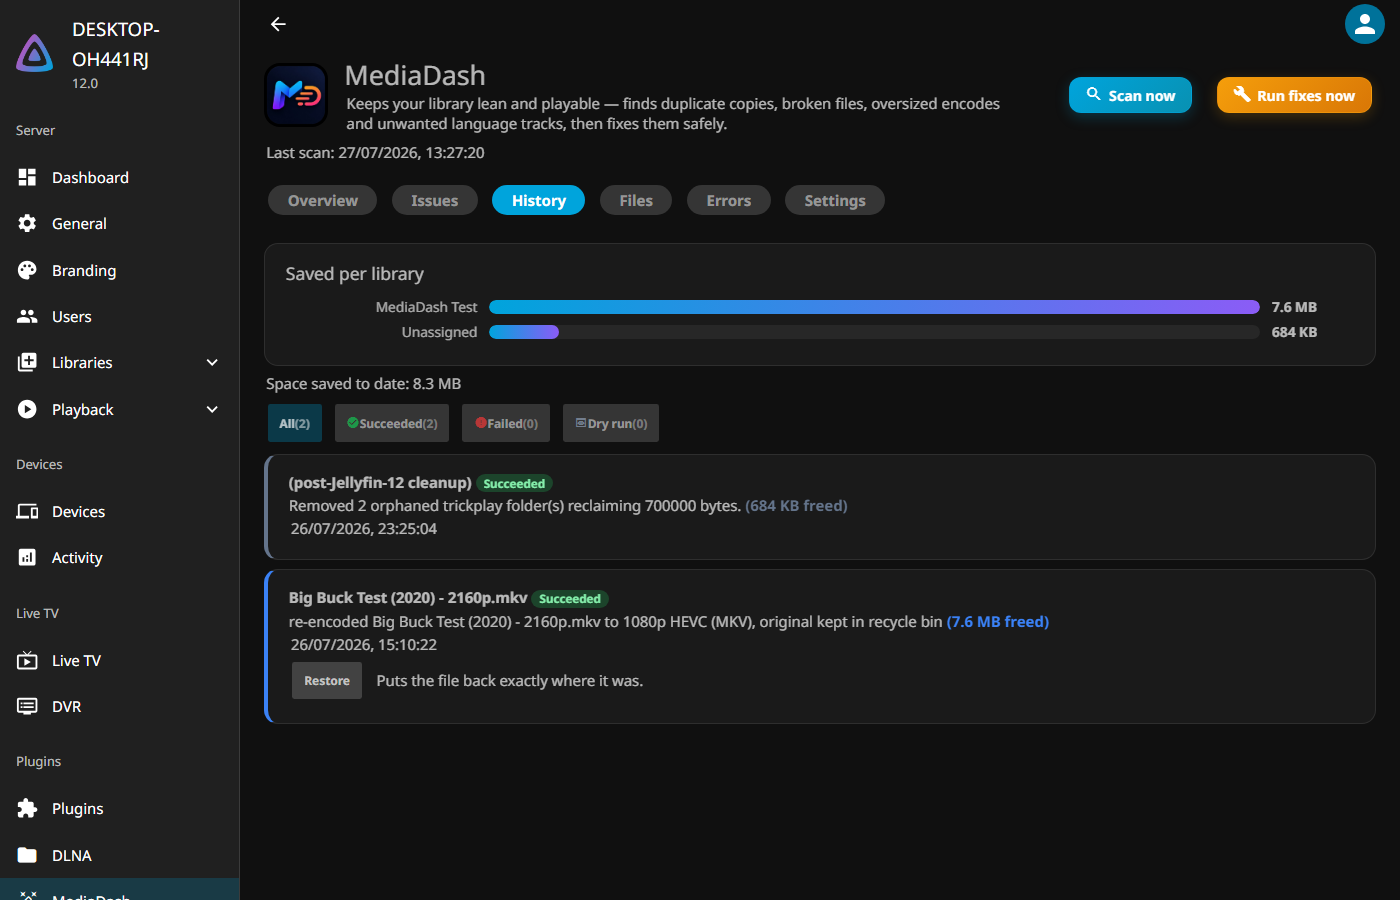
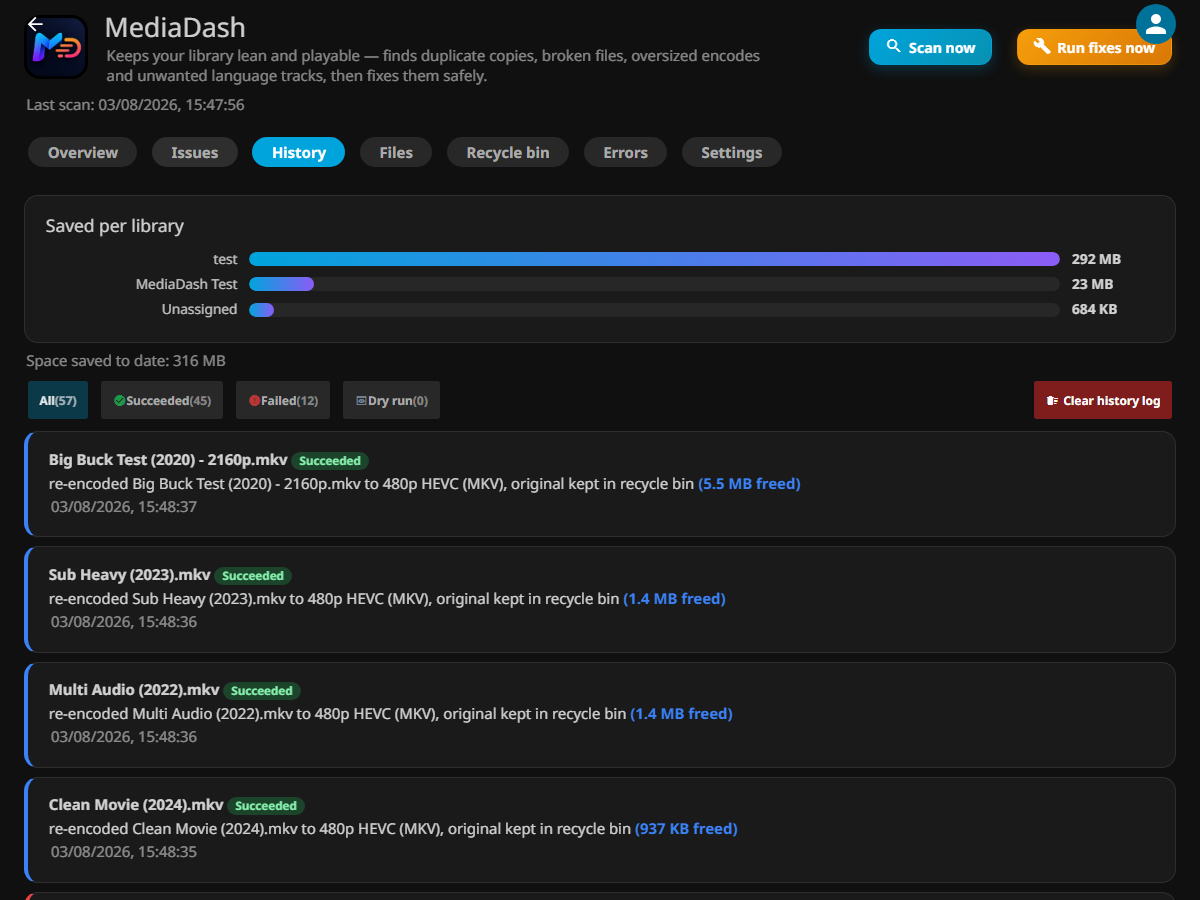
Docs: refresh README, GitHub Pages and screenshots for v0.9.x
README:
- Rewrite the What-it-does table to cover music/audiobook/book duplicates, book
  and comic integrity probes, the corrupt-artwork fixer and the executable /
  malware scanner (new in v0.9).
- Add v10.11 + v12 dual-ABI callout, opportunistic-scheduling explainer and
  Errors-tab-surfaces-every-failure line to Highlights.
- Update trust list: sidecar-then-swap replaces the old delete-then-move
  wording; scheduling copy now says the task fires every 15 min and skips
  while anyone is watching.

docs/index.html:
- Hero + og description mention artwork and malware coverage; drop
  "on your schedule" for "the moment your server goes idle".
- Feature grid gains Corrupt-artwork and Malware/executables cards; existing
  cards updated for wider media-type coverage.
- Trust list gets a sixth card (Errors-tab surfaces failures) and rewords
  the scheduling/verify entries.

Screenshots (docs/overview|issues|history|settings.png):
- Fresh captures on Jellyfin 10.11.11 with the 0.9.1 plugin loaded.
- All machine-name and username strings scrubbed via DOM injection before
  the capture (h6 sidebar label and title attrs both replaced with a
  generic "Jellyfin Server" / "demo" placeholder).
- Fixture paths (C:\dev\mediadash-fixtures\...) rewritten in-DOM to
  \media-server\media\... so the Issues cards read like a realistic
  network-share layout instead of a dev machine.

diff --git a/docs/index.html b/docs/index.html
@@ -4,10 +4,10 @@
     <meta charset="utf-8">
     <meta name="viewport" content="width=device-width, initial-scale=1">
     <title>MediaDash — Jellyfin library maintenance, on autopilot</title>
-    <meta name="description" content="Duplicates, broken files, oversized encodes, wrong-language tracks, misplaced files, missing subtitles, stale content — one dashboard, fixed safely on your schedule.">
+    <meta name="description" content="Duplicates, broken files, oversized encodes, wrong-language tracks, misplaced files, missing subtitles, corrupt artwork, malware — one dashboard, fixed the moment your server goes idle. Jellyfin 10.11 and 12.0.">
     <link rel="icon" type="image/png" href="logo.png">
     <meta property="og:title" content="MediaDash — the one plugin a Jellyfin library owner needs">
-    <meta property="og:description" content="Finds duplicates, broken files, oversized encodes and unwanted tracks. Fixes them safely, on your schedule.">
+    <meta property="og:description" content="Finds duplicates, broken files, oversized encodes, unwanted tracks, malware and stale content. Fixes them safely, the moment your server goes idle.">
     <meta property="og:image" content="overview.png">
     <link rel="preconnect" href="https://fonts.googleapis.com">
     <link rel="preconnect" href="https://fonts.gstatic.com" crossorigin>
@@ -322,7 +322,7 @@
         <div class="wrap">
             <img src="logo.png" alt="MediaDash logo" class="logo">
             <h1>MediaDash</h1>
-            <p class="tagline">The one plugin a Jellyfin library owner needs. Duplicates, broken files, oversized encodes, wrong-language tracks, misplaced files, missing subtitles, stale content — surfaced on one dashboard and fixed safely on your schedule.</p>
+            <p class="tagline">The one plugin a Jellyfin library owner needs. Duplicates, broken files, oversized encodes, wrong-language tracks, misplaced files, missing subtitles, corrupt artwork, executables where media should be, stale content — surfaced on one dashboard and fixed the moment your server goes idle.</p>
             <div class="badges">
                 <a href="https://github.com/crackruckles/MediaDash/actions/workflows/ci.yaml"><img src="https://github.com/crackruckles/MediaDash/actions/workflows/ci.yaml/badge.svg" alt="CI status"></a>
                 <a href="https://github.com/crackruckles/MediaDash/releases/latest"><img src="https://img.shields.io/github/v/release/crackruckles/MediaDash?label=release&amp;color=00a4dc" alt="Latest release"></a>
@@ -381,14 +381,16 @@
                 <p class="sec-sub">Every fix type runs independently: Off · Detect only · Ask me first · Automatic.</p>
 
                 <div class="features">
-                    <div class="feature"><h3><span class="material-icons">content_copy</span>Duplicate copies</h3><p>Same movie or episode twice — matched by TMDb/IMDb/TVDb id, or name + year.</p><span class="fix"><strong>Fix:</strong> deletes the worse copy — you choose what "worse" means.</span></div>
-                    <div class="feature" style="border-left-color:var(--red);"><h3><span class="material-icons" style="color:#f87171;">block</span>Files that won't play</h3><p>Broken / unreadable files. Every file is test-played at start, middle and end.</p><span class="fix"><strong>Fix:</strong> removes them, after re-checking they're really broken.</span></div>
-                    <div class="feature" style="border-left-color:var(--amber);"><h3><span class="material-icons" style="color:#fbbf24;">compress</span>Oversized encodes</h3><p>Anything above your resolution or bitrate ceiling.</p><span class="fix"><strong>Fix:</strong> re-encodes to your chosen codec + container (GPU-accelerated).</span></div>
+                    <div class="feature"><h3><span class="material-icons">content_copy</span>Duplicate copies</h3><p>Same movie, episode, song, audiobook or book twice — matched by TMDb/IMDb/TVDb, MusicBrainz, ISBN, or name + year.</p><span class="fix"><strong>Fix:</strong> deletes the worse copy — you choose what "worse" means.</span></div>
+                    <div class="feature" style="border-left-color:var(--red);"><h3><span class="material-icons" style="color:#f87171;">block</span>Files that won't play</h3><p>Broken video (test-played at start, middle and end) plus book / comic integrity probes for EPUB / PDF / MOBI / AZW3 / CBZ / CBR / CB7.</p><span class="fix"><strong>Fix:</strong> removes them, after re-checking they're really broken.</span></div>
+                    <div class="feature" style="border-left-color:var(--amber);"><h3><span class="material-icons" style="color:#fbbf24;">compress</span>Oversized encodes</h3><p>Anything above your resolution or bitrate ceiling. Detect-only audio ceiling flags high-bitrate MP3 / AAC.</p><span class="fix"><strong>Fix:</strong> re-encodes to your chosen codec + container (GPU-accelerated).</span></div>
                     <div class="feature" style="border-left-color:var(--accent);"><h3><span class="material-icons" style="color:#c084fc;">subtitles</span>Unwanted subtitles</h3><p>Embedded tracks and external files in languages you don't keep.</p><span class="fix"><strong>Fix:</strong> lossless remux — no quality loss.</span></div>
                     <div class="feature" style="border-left-color:var(--accent);"><h3><span class="material-icons" style="color:#c084fc;">volume_up</span>Unwanted audio</h3><p>Extra audio tracks outside your language list.</p><span class="fix"><strong>Fix:</strong> lossless remux — never touches a file's only audio track.</span></div>
                     <div class="feature" style="border-left-color:var(--green);"><h3><span class="material-icons" style="color:#4ade80;">closed_caption</span>Missing subtitles</h3><p>Videos with no subtitle in any language you keep.</p><span class="fix"><strong>Fix:</strong> downloads via Jellyfin's configured providers (OpenSubtitles, etc.).</span></div>
-                    <div class="feature"><h3><span class="material-icons">drive_file_move</span>Misplaced files</h3><p>A movie under TV, or a TV episode under Movies.</p><span class="fix"><strong>Fix:</strong> moves it into the right library folder.</span></div>
-                    <div class="feature" style="border-left-color:var(--mute);"><h3><span class="material-icons" style="color:#94a3b8;">schedule</span>Stale content</h3><p>Media nobody has played in your configured window (default 365 days).</p><span class="fix"><strong>Detect-only</strong> — surfaces the list so you decide.</span></div>
+                    <div class="feature"><h3><span class="material-icons">drive_file_move</span>Misplaced files</h3><p>A movie under TV, an audiobook under Books, a comic under Music — per-type routing across Movies / TV / Anime / Music / Audiobooks / Books / Comics / Pictures.</p><span class="fix"><strong>Fix:</strong> moves it into the right library folder.</span></div>
+                    <div class="feature" style="border-left-color:var(--primary);"><h3><span class="material-icons">image_not_supported</span>Corrupt artwork</h3><p>Zero-byte, truncated or unreadable poster / backdrop files inside Jellyfin's metadata cache.</p><span class="fix"><strong>Fix:</strong> deletes the broken image so Jellyfin re-fetches it. Never touches artwork you placed alongside your media.</span></div>
+                    <div class="feature" style="border-left-color:var(--red);"><h3><span class="material-icons" style="color:#f87171;">gpp_bad</span>Malware & executables</h3><p><code>.exe</code>, <code>.msi</code>, <code>.bat</code>, <code>.ps1</code>, <code>.sh</code>, <code>.lnk</code> and other non-media files that don't belong in a media library — almost always malware bundled with pirated releases.</p><span class="fix"><strong>Fix:</strong> moves them to the recycle bin.</span></div>
+                    <div class="feature" style="border-left-color:var(--mute);"><h3><span class="material-icons" style="color:#94a3b8;">schedule</span>Stale content</h3><p>Media nobody has played in your configured window (default 365 days) — across video, audio, audiobook and book libraries.</p><span class="fix"><strong>Detect-only</strong> — surfaces the list so you decide.</span></div>
                 </div>
             </div>
         </section>
@@ -444,9 +446,10 @@
                 <div class="trust-list">
                     <div class="trust"><span class="material-icons" style="color:#4ade80;">shield</span><strong>Dry-run by default</strong><p>Fix runs only log what they <em>would</em> do until you say otherwise.</p></div>
                     <div class="trust"><span class="material-icons" style="color:#4ade80;">restore_from_trash</span><strong>Recycle bin, not deletion</strong><p>Removed files are recoverable for 30 days with one-click Restore.</p></div>
-                    <div class="trust"><span class="material-icons" style="color:#4ade80;">verified</span><strong>Verify before swap</strong><p>Re-encodes replace the original only after probe verification passes.</p></div>
-                    <div class="trust"><span class="material-icons" style="color:#4ade80;">lock</span><strong>Hard limits</strong><p>Never touches files outside your libraries, never removes a file's last audio track, always checks free disk before encoding.</p></div>
-                    <div class="trust"><span class="material-icons" style="color:#4ade80;">bedtime</span><strong>Polite scheduling</strong><p>Scheduled runs wait until nobody is watching and the server has been idle for 15 minutes.</p></div>
+                    <div class="trust"><span class="material-icons" style="color:#4ade80;">verified</span><strong>Verify + safe swap</strong><p>Re-encodes stage the new copy to a sidecar before disposing the original, so a failed rename never leaves you with both files gone.</p></div>
+                    <div class="trust"><span class="material-icons" style="color:#4ade80;">lock</span><strong>Hard limits</strong><p>Never touches files outside your libraries, never removes a file's only audio track, always checks free disk before encoding.</p></div>
+                    <div class="trust"><span class="material-icons" style="color:#4ade80;">bedtime</span><strong>Fires only when idle</strong><p>The fix task wakes every 15 minutes and skips whenever anyone is watching or was active in the last 15 minutes.</p></div>
+                    <div class="trust"><span class="material-icons" style="color:#4ade80;">error_outline</span><strong>Every failure surfaces</strong><p>Errors tab captures anything a scanner or fixer would otherwise swallow — permission denied, transient I/O, missing ffmpeg.</p></div>
                 </div>
             </div>
         </section>

diff --git a/README.md b/README.md
@@ -6,7 +6,7 @@
 
 **The one plugin a Jellyfin library owner needs.**
 
-Duplicates, broken files, oversized encodes, wrong-language tracks, misplaced files, missing subtitles, stale unwatched content — surfaced on one dashboard and fixed safely on your schedule.
+Duplicates, broken files, oversized encodes, wrong-language tracks, misplaced files, missing subtitles, corrupt artwork, executables where media should be, stale unwatched content — surfaced on one dashboard and fixed safely, the moment your server goes idle.
 
 [![CI](https://github.com/crackruckles/MediaDash/actions/workflows/ci.yaml/badge.svg)](https://github.com/crackruckles/MediaDash/actions/workflows/ci.yaml)
 [![Release](https://img.shields.io/github/v/release/crackruckles/MediaDash?label=release&color=00a4dc)](https://github.com/crackruckles/MediaDash/releases/latest)
@@ -39,16 +39,18 @@ Requires Jellyfin **10.11+** or **12.0+**. One binary covers both — the manife
 
 | | Finds | Fixes |
 |---|---|---|
-| 🗂 **Duplicate copies** | Same movie/episode twice (by TMDb/IMDb/TVDb id, or name + year) | Deletes the worse copy — you choose what "worse" means |
-| 🚫 **Files that won't play** | Broken / unreadable files — every file is *test-played* at its start, middle and end | Removes them, after re-checking they're really broken |
-| 📦 **Files wasting space** | Anything above your resolution / bitrate ceiling | Re-encodes to your chosen codec + container (GPU-accelerated, per-GPU selectable) |
+| 🗂 **Duplicate copies** | Same movie, episode, song (MusicBrainz + artist/album/title/duration), audiobook or book (ISBN + name) twice | Deletes the worse copy — you choose what "worse" means |
+| 🚫 **Files that won't play** | Broken / unreadable video — every file is *test-played* at its start, middle and end. Books (EPUB/PDF/MOBI/AZW3) and comics (CBZ/CBR/CB7) get integrity probes too | Removes them, after re-checking they're really broken |
+| 📦 **Files wasting space** | Anything above your resolution / bitrate ceiling. Detect-only audio ceiling for MP3 > 320 kbps and AAC > 256 kbps (lossless codecs skipped) | Re-encodes to your chosen codec + container (GPU-accelerated, per-GPU selectable) |
 | 💬 **Unwanted subtitles** | Embedded tracks + external files in languages you don't keep | Lossless remux — no quality loss |
 | 🔊 **Unwanted audio** | Extra audio tracks outside your language list | Lossless remux — never touches a file's only audio track |
 | 📥 **Missing subtitles** | Videos with no subtitle in any language you keep | Downloads via Jellyfin's configured providers (OpenSubtitles etc.) |
-| 🚚 **Misplaced files** | A movie under TV or a TV episode under Movies | Moves it into the right library folder |
-| ⏳ **Stale content** | Media nobody has played in your configured window (default 365 days) | Detect-only — surfaces the list so you can decide whether to prune |
+| 🚚 **Misplaced files** | A movie under TV, a TV episode under Movies, an audiobook under Books, a comic under Music, etc. (Movies / TV / Anime / Music / Audiobooks / Books / Comics / Pictures) | Moves it into the right library folder |
+| 🎨 **Corrupt artwork** | Zero-byte, truncated or unreadable poster / backdrop files inside Jellyfin's metadata folders | Deletes the broken image so Jellyfin's own metadata pipeline re-fetches on the next scan (never touches artwork alongside your media) |
+| ⚠ **Executables and scripts** | `.exe`, `.msi`, `.bat`, `.ps1`, `.sh`, `.lnk` and other non-media files sitting inside library folders — almost always malware bundled with pirated releases | Moves them to the recycle bin |
+| ⏳ **Stale content** | Media nobody has played in your configured window (default 365 days) — video, audio, audiobook, book | Detect-only — surfaces the list so you can decide whether to prune |
 
-Every fix type runs independently: **Off · Detect only · Ask me first · Automatic**. Stale content is detect-only (no auto-delete).
+Every fix type runs independently: **Off · Detect only · Ask me first · Automatic**. Stale content and audio-quality checks are detect-only.
 
 <div align="center">
 <img src="docs/issues.png" width="850" alt="Issues tab with one-click actions"/>
@@ -76,9 +78,9 @@ _Refreshes on the 1st of each month from opt-in installs. See [docs/PRIVACY.md](
 
 - 🛡 **Dry-run is on by default** — fix runs only log what they *would* do until you say otherwise
 - ♻ **Recycle bin, not deletion** — removed files are recoverable for 30 days with one-click Restore
-- ✅ **Verify before swap** — a re-encoded file replaces the original only after it passes probe verification (duration, streams)
+- ✅ **Verify before swap** — a re-encoded file replaces the original only after it passes probe verification (duration, streams). The encoded copy is staged to a sidecar *before* the original is disposed, so a failed final rename never leaves you with both files gone
 - 🔒 **Hard limits** — never touches files outside your libraries, never removes a file's last audio track, never moves a file outside a library root, checks free disk space before encoding
-- 😴 **Polite** — scheduled runs wait until nobody is watching and the server has been idle for 15 minutes
+- 😴 **Fires only when idle** — the fix task wakes up every 15 minutes and skips whenever anyone is watching or has been active in the last 15 minutes. Queued fixes drain the moment the server goes idle — no more waiting for a nightly window
 
 <div align="center">
 <img src="docs/history.png" width="850" alt="History with space-saved graph and restore"/>
@@ -86,15 +88,21 @@ _Refreshes on the 1st of each month from opt-in installs. See [docs/PRIVACY.md](
 
 ## Highlights
 
+- **Runs on Jellyfin 10.11 *and* 12.0** — one .NET 9 binary covers both host lines. The plugin bridges the `User` / `IUserManager` entity changes and the `VirtualFolderInfo.ItemId` shape drift between the two ABIs via reflection, so scoped-library filters work on either.
+- **Opportunistic fix scheduling (new in v0.9.1)** — no more picking a nightly time. The fix task fires every 15 minutes and skips whenever anyone is watching or was active in the last 15 minutes, so approved fixes drain the instant the server frees up.
+- **Full media-type coverage** — every scanner (Duplicate, Playability, Quality, Sub/Audio, Stale, Misplaced) now covers Movies, TV, Music, Audiobooks and Books alongside video. Music duplicates group by MusicBrainz recording ID (or artist + album + title + duration); books group by ISBN.
+- **Book & comic integrity probes** — pure stdlib EPUB / PDF / MOBI / AZW3 checks, plus CBZ / CBR / CB7 archive validation via SharpCompress. Catches container-corrupt e-books and comics ffprobe never sees.
+- **Corrupt artwork fixer** — deletes zero-byte / truncated / decode-failing poster and backdrop files inside Jellyfin's metadata cache so Jellyfin's own metadata pipeline re-fetches on the next scan. Never touches artwork you placed alongside your media.
+- **Media sorter with per-type routing** — flag a movie sitting under TV, an audiobook under Books, a comic under Music, and move it to the right library. Each kind (Movies / TV / Anime / Music / Audiobook / Book / Comic / Picture) has its own optional target folder.
 - **Feature-at-a-time first-run wizard** — walks each scanner and its settings one step at a time; every knob is also on the Settings tab, and the wizard is re-openable from Settings → Maintenance.
 - **Live system stats on Overview** — CPU / RAM / per-GPU utilisation, Windows and Linux, with an AMD APU `gpu_metrics` fallback for Rembrandt / Phoenix iGPUs where the plain busy-percent counter is broken.
 - **Hardware-accelerated re-encoding** — uses the AMF / NVENC / QSV / VideoToolbox encoder Jellyfin already knows about, with a preferred-GPU picker and automatic per-file software fallback.
 - **Subtitle downloading via your Jellyfin providers** — MediaDash surfaces missing subs; the download itself uses whatever provider you already configured in Jellyfin (no new API keys to manage).
 - **Deep playability check** — beyond ffprobe headers, MediaDash test-plays the start (and end, and middle for long files), scans ffmpeg's stderr for truncation markers, cross-checks container bitrate × duration against actual file size, and compares decoded seconds against what was requested. Catches files that "sort of play" — ones ffprobe reports as valid but that stop short during actual playback.
 - **Smart test-play cache** — thorough playability checks only re-run on files that changed.
+- **Errors tab surfaces every silent failure** — anywhere a scanner or fixer would previously swallow an exception (permission denied, transient I/O, ffmpeg gone missing, SkiaSharp not loaded) now records a one-line diagnostic you can act on.
 - **Recycle-bin size banner** — a visible reminder on Overview when the bin exceeds 10 GB, so it doesn't quietly eat a chunk of your library drive.
 - **Files tab** — scoped file browser inside your library folders (rename / move / delete, admin only, deletes go to the recycle bin).
-- **Scan & fix schedules live in Jellyfin's own Scheduled Tasks dashboard.**
 
 <div align="center">
 <img src="docs/settings.png" width="850" alt="Settings with per-type fix modes"/>
